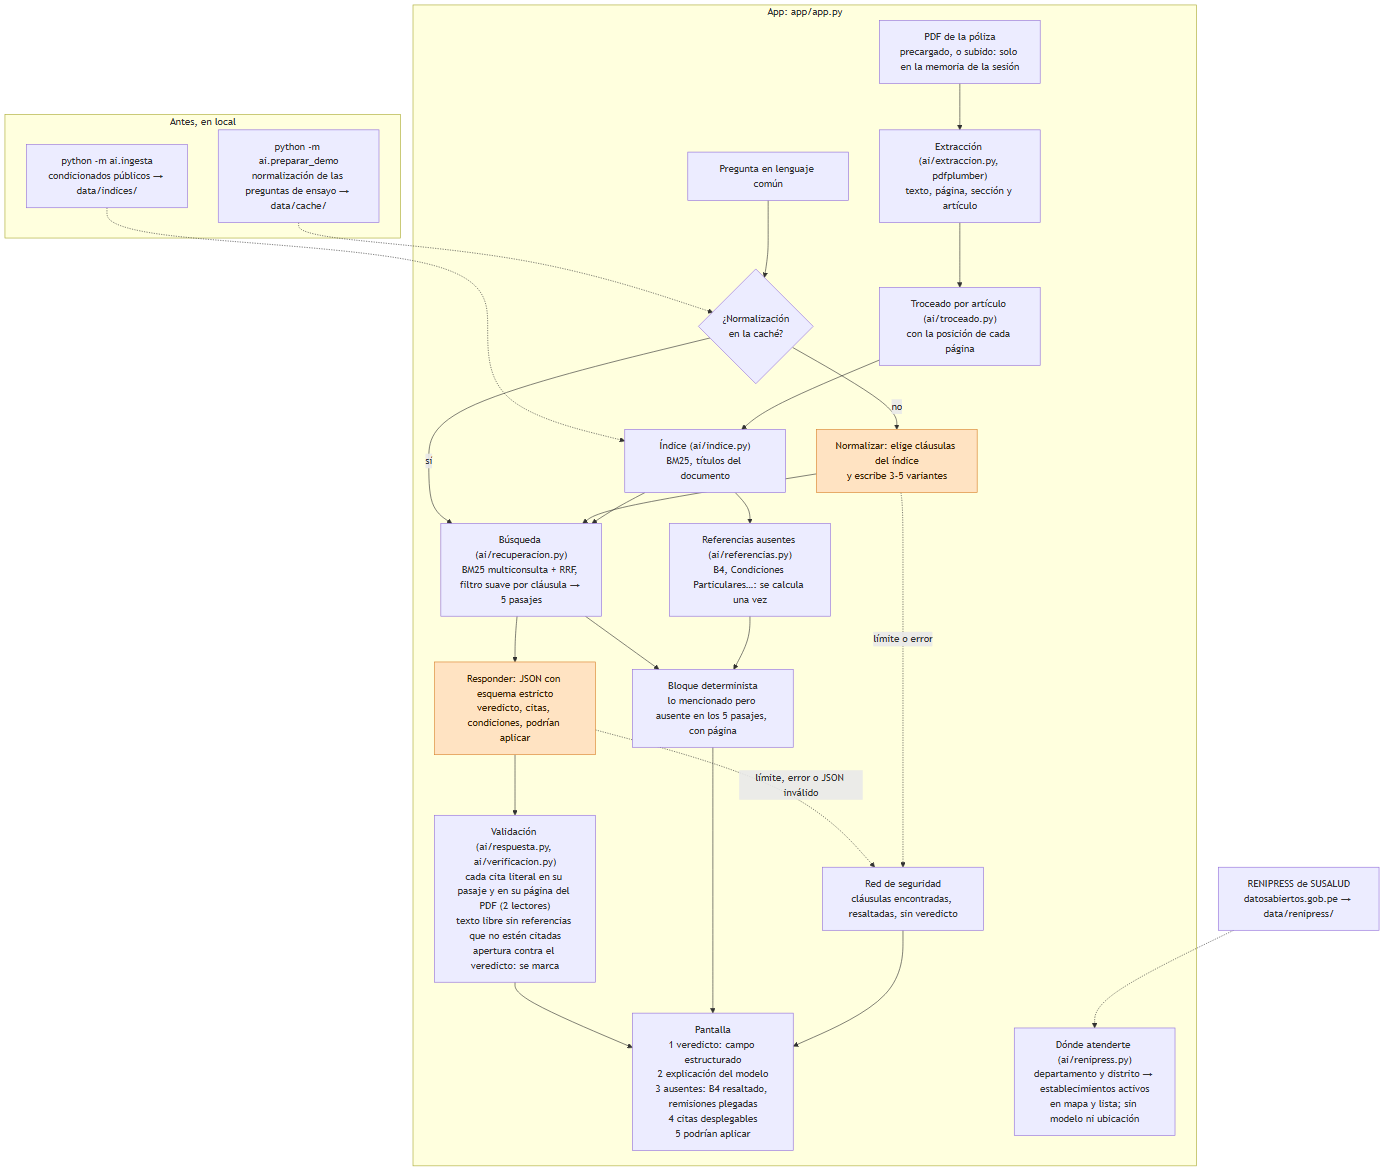
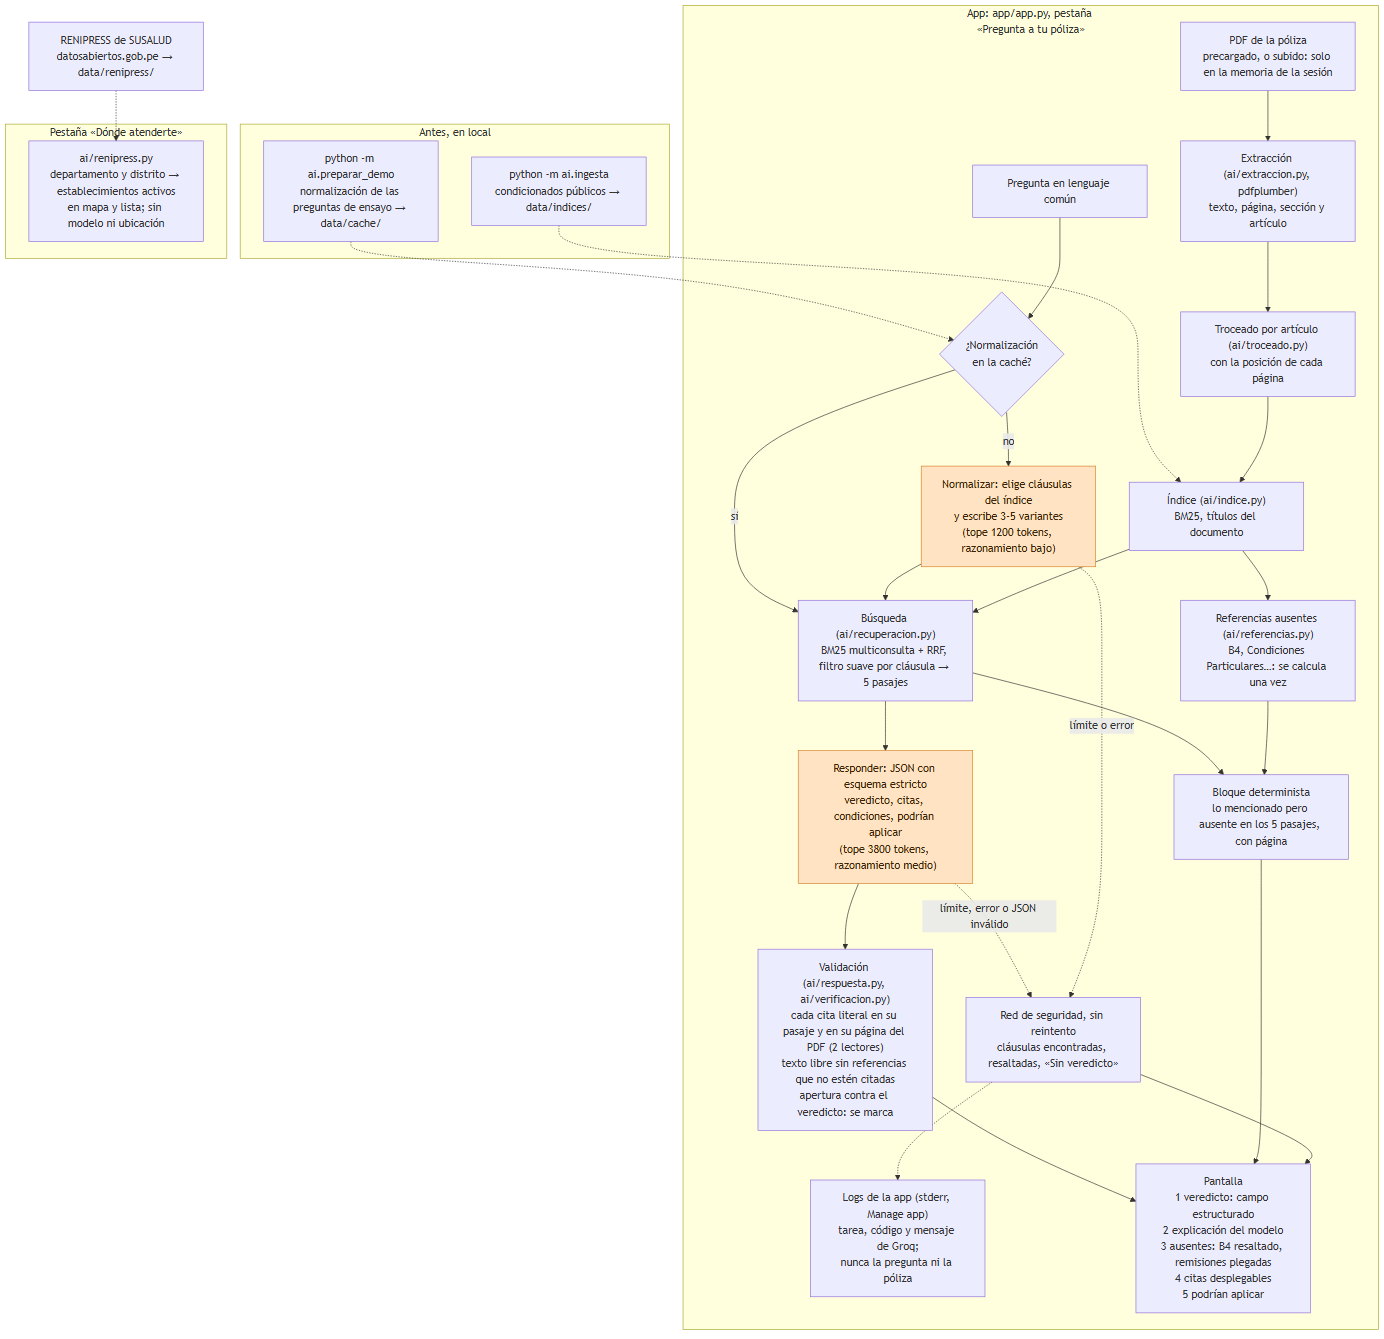
README final con números medidos, diagrama con el mapa y marcadores pendientes
- Modelo de negocio con la configuración actual (5 pasajes): 4998 tokens por
  respuesta y 6998 por pregunta nueva (la cifra de 6583 era la de unos 10
  pasajes). 100 usuarios × 10 consultas al mes: ~USD 1,94 al precio de pago de
  Groq (0,15 / 0,60 por millón), y el plan gratuito ya no alcanza por los
  200 000 tokens diarios.
- Herramientas del curso: Document AI 10, LLM con salidas estructuradas y RAG
  08, Mapas 06, con sus archivos.
- Demo: URL pública, hueco para el video de respaldo, 8 de 10 al primer intento.
- Limitaciones: cuota diaria del plan gratuito y espaciado de P01 y P02.
- Diagrama: topes de tokens, red de seguridad sin reintento, logs y la pestaña
  del mapa; PNG regenerado.
- docs/research/ con plantilla para las 3 entrevistas.
- La serie de estabilidad anterior (tope 3000) pasa a pruebas/estabilidad/039314c/
  para medir la nueva con el tope de 3800.

diff --git a/pruebas/medir_estabilidad.py b/pruebas/medir_estabilidad.py
@@ -47,6 +47,10 @@ def resumen(qs: list[dict], veces: int) -> str:
         "el script de entonces abortó sin guardarlo y lo rehízo: al primer intento fueron 6 llamadas, 1 sin",
         "texto (tipo de falla no registrado).",
         "",
+        "La serie anterior con el bloque, con el mismo prompt y el tope de 3000 tokens (P02 en el commit",
+        "a80fb90, P01 en 039314c), está en `pruebas/estabilidad/039314c/`: P02 aceptables 3 de 5 y B4 en el",
+        "bloque 5 de 5; P01 aceptables 5 de 5. La de abajo es con el tope de 3000 subido a 3800.",
+        "",
     ]
     for q in qs:
         intentos = [json.loads(p.read_text(encoding="utf-8")) for p in sorted(CARPETA.glob(f"{q['id']}_*.json"))][:veces]

diff --git a/README.md b/README.md
@@ -26,31 +26,53 @@ de su propio PDF y cita artículo y página.
 
 ## 2. Founder
 
-Pendiente.
+**[PENDIENTE: founder]** Quién eres y por qué este problema.
 
 ## 3. Problema
 
-Pendiente: quién lo sufre, cuánto le cuesta y cómo lo resuelve hoy.
+**[PENDIENTE: founder]** Quién lo sufre, cuánto le cuesta y cómo lo resuelve hoy.
 
 Evidencia: notas de 3 conversaciones con usuarios potenciales en [`docs/research/`](docs/research/).
 
 ## 4. Solución e insight
 
-Pendiente.
+**Solución.** Subes el PDF de tu póliza (o eliges un condicionado precargado) y preguntas
+como hablas: "me torcí el dedo en Tarapoto, ¿me cubre?". La app busca en tu propio documento
+los pasajes que responden, el modelo redacta la respuesta en JSON con citas, y el código
+verifica cada cita letra por letra contra la página del PDF antes de mostrarla. Arriba va el
+veredicto ("Cubre con límites"), debajo la explicación, lo que la póliza menciona pero no
+trae, y las citas con su artículo y página. Si el modelo falla, se ven igual las cláusulas
+encontradas.
+
+**Insight** (borrador, por confirmar): el modelo redacta, pero lo que el asegurado puede
+comprobar lo pone el código. Cada cita está literal en su página, y lo que la póliza
+menciona sin incluir su texto (en Chubb, la cobertura "B4 - Continuación de Tratamiento en
+País de Residencia") aparece siempre, con su página, aunque el modelo no lo diga: en 5 de 5
+corridas de P02 lo mostró el bloque del código, mientras que el modelo solo no lo nombró en
+ninguna de 5.
 
 ## 5. Why now
 
-Pendiente.
+**[PENDIENTE: founder]**
 
 ## 6. Demo
 
-- **URL pública:** pendiente (Streamlit Community Cloud).
+- **URL pública:** [queqbre.streamlit.app](https://queqbre.streamlit.app/) (Streamlit
+  Community Cloud). Dos pestañas: "Pregunta a tu póliza" y "Dónde atenderte".
+- **Video de respaldo:** **[PENDIENTE: link al video]**, por si en la demo falla la conexión
+  o la cuota.
+- **Casos de la demo:** las dos preguntas reales de Tarapoto, como botones, sobre el
+  condicionado de Chubb · JetSmart: la torcedura (P01) y la radiografía al llegar a Lima
+  (P02).
+- **Resultados, al primer intento y sin reintento (lo que vive el usuario):** 8 de 10
+  preguntas de prueba con veredicto aceptable (9 de 10 si el script reintenta una vez). P01
+  y P02, cinco veces cada una con el tope de 3800 tokens: **[medición en curso: se completa al terminar]**. Detalle y
+  límites en Limitaciones.
 - **Capturas:** en [`docs/arquitectura.md`](docs/arquitectura.md#capturas): la pantalla
   inicial, la radiografía al llegar a Lima (P02), la torcedura en Tarapoto (P01) con una
-  cita desplegada y "Dónde atenderte" en Tarapoto. Tomadas en local con respuestas grabadas
-  de `pruebas/` (ahí se explica).
+  cita desplegada y "Dónde atenderte" en Tarapoto. Por ahora, tomadas en local con respuestas grabadas de `pruebas/` (ahí se explica); se reemplazan por capturas de la app desplegada con respuestas en vivo.
 - **Diagrama de arquitectura:** [`docs/arquitectura.md`](docs/arquitectura.md) (Mermaid) y
-  [`docs/arquitectura.png`](docs/arquitectura.png).
+  [`docs/arquitectura.png`](docs/arquitectura.png), incluida la pestaña del mapa.
 - **Modelos y por qué:** ver abajo.
 
 ### Modelos y por qué
@@ -165,34 +187,50 @@ Viaje, 20 págs. a dos columnas).
 
 ## 7. Modelo de negocio
 
-Pendiente: quién paga y precio concreto.
+**[PENDIENTE: founder]** Quién paga y precio concreto.
 
 **Costo por consulta hoy: USD 0.** El modelo corre en el plan gratuito de Groq y la app en
-el plan gratuito de Streamlit Community Cloud, ninguno de los dos cobra por token ni por
-hora. Lo que se cede a cambio es capacidad: el plan gratuito limita peticiones y tokens por
-minuto y por día. Cada consulta hace dos llamadas al modelo (normalizar y responder); las
-preguntas ensayadas tienen la normalización en una caché versionada y gastan una sola.
+el plan gratuito de Streamlit Community Cloud; ninguno cobra por token ni por hora. Lo que
+se cede a cambio es capacidad: el plan gratuito limita peticiones y tokens por minuto y por
+día. Cada consulta hace dos llamadas al modelo (normalizar y responder); las preguntas
+ensayadas tienen la normalización en una caché versionada y gastan una sola.
 
-Tokens por consulta medidos en las 10 preguntas ([`pruebas/resultados.md`](pruebas/resultados.md)):
-la respuesta gasta en promedio 6583 (entre 5631 y 7421: unos 4770 de entrada, casi todo
-pasajes, y 1813 de salida, de la que el 71 % es razonamiento del modelo); la normalización,
-unos 950 más. Una pregunta nueva gasta en promedio 7541. La normalización anclada cuesta
-más, entre 1925 y 2095 tokens, porque lleva en la entrada la lista de títulos del documento.
+**Tokens por consulta**, promedio de la corrida de las 10 preguntas con la configuración
+actual (5 pasajes, [`pruebas/resultados.md`](pruebas/resultados.md)):
 
-El límite que pesa es el de **8000 tokens por minuto**. Medido con las cabeceras de Groq:
-funciona como un balde que se rellena a 133 tokens por segundo; una llamada entra si quedan
-libres más o menos los tokens de su entrada (Groq pidió 5428 para una entrada de 5040, sin
-contar el máximo de salida) y después se descuenta lo que gastó de verdad. Con estas cifras,
-5 consultas seguidas necesitan una cada 46 s si están en la caché y una cada 54 s si son
-nuevas.
+| Llamada | Entrada | Salida (incluye razonamiento) | Total |
+|---|---:|---:|---:|
+| Normalizar la pregunta | 1590 | 410 | 2000 |
+| Responder | 3428 | 1570 | 4998 |
+| **Pregunta nueva (las dos)** | **5018** | **1980** | **6998** |
 
-Por eso la app manda 5 pasajes al modelo en vez de unos 10 (opción A de
+Una pregunta ensayada, con la normalización en la caché, gasta solo la respuesta: 4998. La
+cifra de 6583 tokens que se citaba antes era la respuesta con la configuración anterior, de
+unos 10 pasajes ([`pruebas/opciones.md`](pruebas/opciones.md)). Con el tope de la respuesta
+subido a 3800, una respuesta larga puede gastar algo más que el promedio: el primer intento
+de P01 en la medición nueva usó 6372.
+
+**Con 100 usuarios haciendo 10 consultas al mes** (1000 consultas, todas preguntas nuevas):
+5,02 millones de tokens de entrada y 1,98 millones de salida. Al precio de pago de Groq para
+`gpt-oss-120b`, USD 0,15 por millón de entrada y 0,60 por millón de salida ([página del
+modelo](https://console.groq.com/docs/model/openai/gpt-oss-120b), consultada el 2026-11-08):
+5,02 × 0,15 + 1,98 × 0,60 = 0,75 + 1,19 ≈ **USD 1,94 al mes**, unos 0,2 centavos por
+consulta. A ese volumen el plan gratuito ya no alcanza, aunque cueste cero: 1000 consultas
+al mes son unas 33 al día y unos 233 000 tokens diarios, por encima de los 200 000 por día
+del plan. Habría que pasar al plan de pago por token de Groq. El límite por minuto no es el
+que pesa: con 5 pasajes entra una pregunta nueva cada ~36 s.
+
+**Cómo funciona el límite por minuto (8000 tokens).** Medido con las cabeceras de Groq: es
+un balde que se rellena a 133 tokens por segundo; para `gpt-oss-120b`, una llamada entra si
+quedan libres más o menos los tokens de su entrada (Groq pidió 5428 para una entrada de
+5040, sin contar el máximo de salida) y después se descuenta lo que gastó de verdad. Con
+unos 10 pasajes, 5 consultas seguidas necesitaban una cada 46 s si estaban en la caché y una
+cada 54 s si eran nuevas; por eso la app manda 5 pasajes (opción A de
 [`pruebas/opciones.md`](pruebas/opciones.md)): 5 consultas en la caché entran una cada 28 a
-34 s. Medido después en la corrida completa con 5 pasajes: la respuesta gasta en promedio
-4998 tokens (entre 3693 y 5849) y una pregunta nueva, con la normalización anclada, 6998. Se midieron también respuestas más cortas
-(menos razonamiento: más barato, pero dos veredictos de diez empeoran) y `gpt-oss-20b`
-(mismo tope de 8000 por minuto, y Groq le cuenta el máximo de salida dentro de lo pedido,
-así que algunas consultas se rechazan aun con el balde lleno). Scripts:
+34 s, y una nueva cada 36 s. Se midieron también respuestas más cortas (menos razonamiento:
+más barato, pero dos veredictos de diez empeoran) y `gpt-oss-20b` (mismo tope de 8000 por
+minuto, y Groq le suma el máximo de salida a lo pedido, así que algunas consultas se
+rechazan aun con el balde lleno). Scripts:
 [`pruebas/medir_cuota.py`](pruebas/medir_cuota.py) (tokens y cabeceras de una consulta),
 [`pruebas/simular_cuota.py`](pruebas/simular_cuota.py) (el límite por minuto) y
 [`pruebas/comparar_opciones.py`](pruebas/comparar_opciones.py) (las opciones de recorte).
@@ -201,13 +239,39 @@ así que algunas consultas se rechazan aun con el balde lleno). Scripts:
 
 | Herramienta | Sesión | Dónde está en el código |
 |---|---|---|
-| Document AI: extraer el texto del PDF conservando página y artículo | 10 | [`ai/extraccion.py`](ai/extraccion.py): texto por página con pdfplumber, detección de dos columnas, limpieza de membretes, secciones y artículos |
-| LLM con salidas estructuradas y RAG | 08 | Troceado por artículo en [`ai/troceado.py`](ai/troceado.py); índice en [`ai/indice.py`](ai/indice.py); prompts y esquemas JSON en [`ai/prompts.py`](ai/prompts.py); proveedor del LLM detrás de una interfaz en [`ai/llm.py`](ai/llm.py); recuperación BM25 multiconsulta en [`ai/recuperacion.py`](ai/recuperacion.py); flujo y validación de citas en [`ai/respuesta.py`](ai/respuesta.py) y [`ai/verificacion.py`](ai/verificacion.py) |
-| Datos abiertos geográficos en un mapa | pendiente | Pestaña "Dónde atenderte" en [`app/app.py`](app/app.py): la persona elige departamento y distrito y ve los establecimientos activos de RENIPRESS (SUSALUD, [datosabiertos.gob.pe](https://www.datosabiertos.gob.pe/dataset/registro-nacional-de-entidades-prestadoras-de-servicios-de-salud-renipress)) en un mapa y una lista; preparación y filtros en [`ai/renipress.py`](ai/renipress.py). No usa el modelo, así que funciona sin cuota |
+| Document AI: extraer el texto del PDF conservando página y artículo | 10 | [`ai/extraccion.py`](ai/extraccion.py): texto por página con pdfplumber, detección de dos columnas, limpieza de membretes, secciones y artículos; troceado por artículo en [`ai/troceado.py`](ai/troceado.py) |
+| LLM con salidas estructuradas y RAG | 08 | Índice en [`ai/indice.py`](ai/indice.py); prompts y esquemas JSON estrictos en [`ai/prompts.py`](ai/prompts.py); proveedor del LLM detrás de una interfaz en [`ai/llm.py`](ai/llm.py); recuperación BM25 multiconsulta en [`ai/recuperacion.py`](ai/recuperacion.py); flujo y validación de citas en [`ai/respuesta.py`](ai/respuesta.py) y [`ai/verificacion.py`](ai/verificacion.py) |
+| Mapas con datos abiertos | 06 | Pestaña "Dónde atenderte" (`pantalla_mapa` en [`app/app.py`](app/app.py)): la persona elige departamento y distrito y ve los establecimientos activos de RENIPRESS (SUSALUD, [datosabiertos.gob.pe](https://www.datosabiertos.gob.pe/dataset/registro-nacional-de-entidades-prestadoras-de-servicios-de-salud-renipress)) en un mapa y una lista; preparación y filtros en [`ai/renipress.py`](ai/renipress.py). No usa el modelo, así que funciona sin cuota |
 
 ## 9. Qué hizo el agente
 
-Pendiente.
+*Borrador para revisar.* El código, las pruebas y las mediciones los escribió un agente de
+programación (Claude Code, de Anthropic) bajo la dirección del founder. Las decisiones
+fueron del founder, a partir de opciones y mediciones que el agente presentó: Groq con
+retención cero como proveedor, BM25 en vez de embeddings en la app, el bloque determinista
+para lo mencionado pero ausente, marcar la apertura contradictoria en vez de recortarla,
+aceptar la variación del veredicto de P02, no reintentar en la app y revertir la regla del
+"Sí"/"No".
+
+Lo que hizo el agente:
+
+- Extracción con página y artículo, troceado, índice BM25, normalización anclada al
+  documento, verificación de citas contra el PDF con dos lectores, bloque de lo mencionado
+  pero ausente, red de seguridad, la app de Streamlit y la pestaña del mapa.
+- Pruebas sin red ni cuota:
+  [`pruebas/probar_verificacion.py`](pruebas/probar_verificacion.py) (42 casos),
+  [`pruebas/probar_llm.py`](pruebas/probar_llm.py) (36) y
+  [`pruebas/probar_app.py`](pruebas/probar_app.py) (23, la interfaz con respuestas
+  grabadas).
+- Mediciones con cuota real: las 10 preguntas, la estabilidad de P01 y P02, la auditoría de
+  citas, la cuota por minuto y por día, y las opciones de recorte (todo en `pruebas/`).
+- El despliegue verificado en la nube con un navegador sin interfaz (Playwright), sin llamar
+  al modelo, y las capturas.
+
+Errores del agente, documentados: desplegó sin medir una regla de prompt que hizo cortar las
+respuestas en el tope de tokens (3 de 3); sus scripts de prueba reintentaban en silencio y
+el "9 de 10" era 8 de 10 al primer intento; y en un commit afirmó una regla de admisión por
+minuto de Groq que era la de otro modelo, corregida en el siguiente.
 
 ---
 
@@ -215,13 +279,17 @@ Pendiente.
 
 ```
 que-me-cubre/
-├── app/          app de Streamlit (y su requirements.txt)
-├── ai/           normalización, troceado, recuperación, prompts y respuesta estructurada
+├── app/            app de Streamlit (y su requirements.txt)
+├── ai/             extracción, troceado, índice, recuperación, prompts, respuesta y RENIPRESS
 ├── data/
-│   ├── polizas/  condicionados públicos de prueba (se versionan)
-│   └── privado/  pólizas personales para pruebas locales (ignorado por git)
-├── docs/         arquitectura, capturas y research/ con las 3 conversaciones
-└── notebooks/    exploración
+│   ├── polizas/    condicionados públicos de prueba (se versionan)
+│   ├── indices/    índices ya construidos de esos condicionados
+│   ├── cache/      normalizaciones de las preguntas de ensayo y de prueba
+│   ├── demo/       preguntas de ensayo de la demo
+│   ├── renipress/  establecimientos activos de RENIPRESS para el mapa
+│   └── privado/    pólizas personales para pruebas locales (ignorado por git)
+├── docs/           arquitectura, capturas y research/ con las 3 conversaciones
+└── pruebas/        preguntas, corridas medidas con sus salidas y pruebas sin red
 ```
 
 ## Limitaciones
@@ -334,6 +402,14 @@ que-me-cubre/
   No se usa la ubicación de la persona: elige departamento y distrito. Para actualizarlo,
   bajar el CSV del mes y correr `python -m ai.renipress --csv ... --corte ... --url ...`
   (la procedencia queda en [`data/renipress/fuente.json`](data/renipress/fuente.json)).
+- **Cuota diaria del plan gratuito:** 200 000 tokens por día para `gpt-oss-120b`, que se
+  reponen de a poco (unos 8300 por hora; Groq no lo informa en las cabeceras, solo en el
+  mensaje del 429). Desde el balde lleno alcanzan para unas 28 preguntas nuevas o 40
+  ensayadas, y cuando se agota la app muestra la red de seguridad. Pasó durante el
+  desarrollo: tras un día de pruebas quedaban 1907 tokens y la medición de P01 y P02 tuvo
+  que esperar la reposición entre intento e intento. Para la demo: llegar con la cuota
+  descansada y dejar unos 35 s entre P01 y P02 (el límite por minuto; la app espera como
+  mucho 8 s y si no, muestra la red de seguridad).
 - **Caché de normalizaciones:** solo contiene preguntas públicas de ensayo y de prueba
   (`data/demo/`, `pruebas/`), generadas en local con `python -m ai.preparar_demo`. La app
   la lee, nunca escribe en ella.

diff --git a/docs/arquitectura.md b/docs/arquitectura.md
@@ -1,8 +1,9 @@
 # Arquitectura
 
-Una consulta, de la pregunta a la pantalla. Lo que hace el modelo está en naranja; todo lo
-demás es código, incluida la verificación de cada cita contra el PDF. La app corre en
-Streamlit Community Cloud. Versión en imagen: [`arquitectura.png`](arquitectura.png).
+Una consulta, de la pregunta a la pantalla, y la pestaña del mapa. Lo que hace el modelo
+está en naranja; todo lo demás es código, incluida la verificación de cada cita contra el
+PDF. La app corre en Streamlit Community Cloud ([queqbre.streamlit.app](https://queqbre.streamlit.app/)).
+Versión en imagen: [`arquitectura.png`](arquitectura.png).
 
 ```mermaid
 flowchart TD
@@ -11,7 +12,7 @@ flowchart TD
         PREP["python -m ai.preparar_demo<br/>normalización de las preguntas de ensayo → data/cache/"]
     end
 
-    subgraph App["App: app/app.py"]
+    subgraph App["App: app/app.py, pestaña «Pregunta a tu póliza»"]
         PDF["PDF de la póliza<br/>precargado, o subido: solo en la memoria de la sesión"]
         EXT["Extracción (ai/extraccion.py, pdfplumber)<br/>texto, página, sección y artículo"]
         TRO["Troceado por artículo (ai/troceado.py)<br/>con la posición de cada página"]
@@ -19,14 +20,18 @@ flowchart TD
         AUS["Referencias ausentes (ai/referencias.py)<br/>B4, Condiciones Particulares…: se calcula una vez"]
         PREG["Pregunta en lenguaje común"]
         CACHE{"¿Normalización<br/>en la caché?"}
-        NORM["Normalizar: elige cláusulas del índice<br/>y escribe 3-5 variantes"]
+        NORM["Normalizar: elige cláusulas del índice<br/>y escribe 3-5 variantes<br/>(tope 1200 tokens, razonamiento bajo)"]
         REC["Búsqueda (ai/recuperacion.py)<br/>BM25 multiconsulta + RRF, filtro suave por cláusula → 5 pasajes"]
-        RESP["Responder: JSON con esquema estricto<br/>veredicto, citas, condiciones, podrían aplicar"]
+        RESP["Responder: JSON con esquema estricto<br/>veredicto, citas, condiciones, podrían aplicar<br/>(tope 3800 tokens, razonamiento medio)"]
         VER["Validación (ai/respuesta.py, ai/verificacion.py)<br/>cada cita literal en su pasaje y en su página del PDF (2 lectores)<br/>texto libre sin referencias que no estén citadas<br/>apertura contra el veredicto: se marca"]
         BLO["Bloque determinista<br/>lo mencionado pero ausente en los 5 pasajes, con página"]
-        RED["Red de seguridad<br/>cláusulas encontradas, resaltadas, sin veredicto"]
+        RED["Red de seguridad, sin reintento<br/>cláusulas encontradas, resaltadas, «Sin veredicto»"]
+        LOG["Logs de la app (stderr, Manage app)<br/>tarea, código y mensaje de Groq;<br/>nunca la pregunta ni la póliza"]
         UI["Pantalla<br/>1 veredicto: campo estructurado<br/>2 explicación del modelo<br/>3 ausentes: B4 resaltado, remisiones plegadas<br/>4 citas desplegables<br/>5 podrían aplicar"]
-        MAPA["Dónde atenderte (ai/renipress.py)<br/>departamento y distrito → establecimientos activos<br/>en mapa y lista; sin modelo ni ubicación"]
+    end
+
+    subgraph Tab2["Pestaña «Dónde atenderte»"]
+        MAPA["ai/renipress.py<br/>departamento y distrito → establecimientos activos<br/>en mapa y lista; sin modelo ni ubicación"]
     end
 
     RENI["RENIPRESS de SUSALUD<br/>datosabiertos.gob.pe → data/renipress/"]
@@ -44,6 +49,7 @@ flowchart TD
     AUS --> BLO --> UI
     RESP -. "límite, error o JSON inválido" .-> RED --> UI
     NORM -. "límite o error" .-> RED
+    RED -.-> LOG
     RENI -.-> MAPA
 
     classDef modelo fill:#ffe3c2,stroke:#d9822b,color:#3b2405
@@ -53,6 +59,13 @@ flowchart TD
 **Qué sale de la app.** Solo la pregunta y los 5 pasajes recuperados (no el PDF entero),
 hacia Groq (`openai/gpt-oss-120b`, retención cero de datos activada en la cuenta). Una
 pregunta de ensayo hace una llamada (la normalización está en la caché); una nueva, dos.
+Si una llamada falla, la app no reintenta: muestra la red de seguridad y deja en sus logs
+una línea con la tarea, el código y el mensaje de Groq, sin la pregunta ni la póliza.
+
+**La pestaña del mapa** no toca el modelo ni la ubicación de la persona: filtra por
+departamento y distrito el registro de establecimientos activos de RENIPRESS (SUSALUD,
+datos abiertos), preparado una vez con `python -m ai.renipress` y versionado en
+`data/renipress/`.
 
 **Qué no depende del modelo.** La extracción con página y artículo, la búsqueda, la
 verificación de cada cita contra el PDF, el bloque de lo mencionado pero ausente y el

diff --git a/docs/research/README.md b/docs/research/README.md
@@ -1,7 +1,21 @@
 # Conversaciones con usuarios
 
-Pendiente: aquí van las notas de las 3 conversaciones con usuarios potenciales
-(una por archivo: `entrevista_1.md`, `entrevista_2.md`, `entrevista_3.md`).
+**[PENDIENTE: founder]** Aquí van las notas de las 3 conversaciones con usuarios
+potenciales, una por archivo: `entrevista_1.md`, `entrevista_2.md`, `entrevista_3.md`.
 
 Sin nombres completos ni datos personales: solo iniciales o un alias, con el
 consentimiento de cada persona.
+
+Plantilla sugerida para cada archivo:
+
+```markdown
+# Entrevista N: <alias>
+
+- Fecha y medio (presencial, llamada…):
+- Perfil: edad aproximada, qué seguro tiene (viaje, salud, SOAT…), quién lo contrató.
+- La última vez que necesitó usarlo: qué pasó.
+- Cómo averiguó qué le cubría: leyó la póliza, llamó a la aseguradora, preguntó a alguien…
+- Cuánto le costó (tiempo, dinero, un gasto que no se reembolsó):
+- Frase textual que resume el problema:
+- Qué haría con una herramienta que responde citando su póliza:
+```
